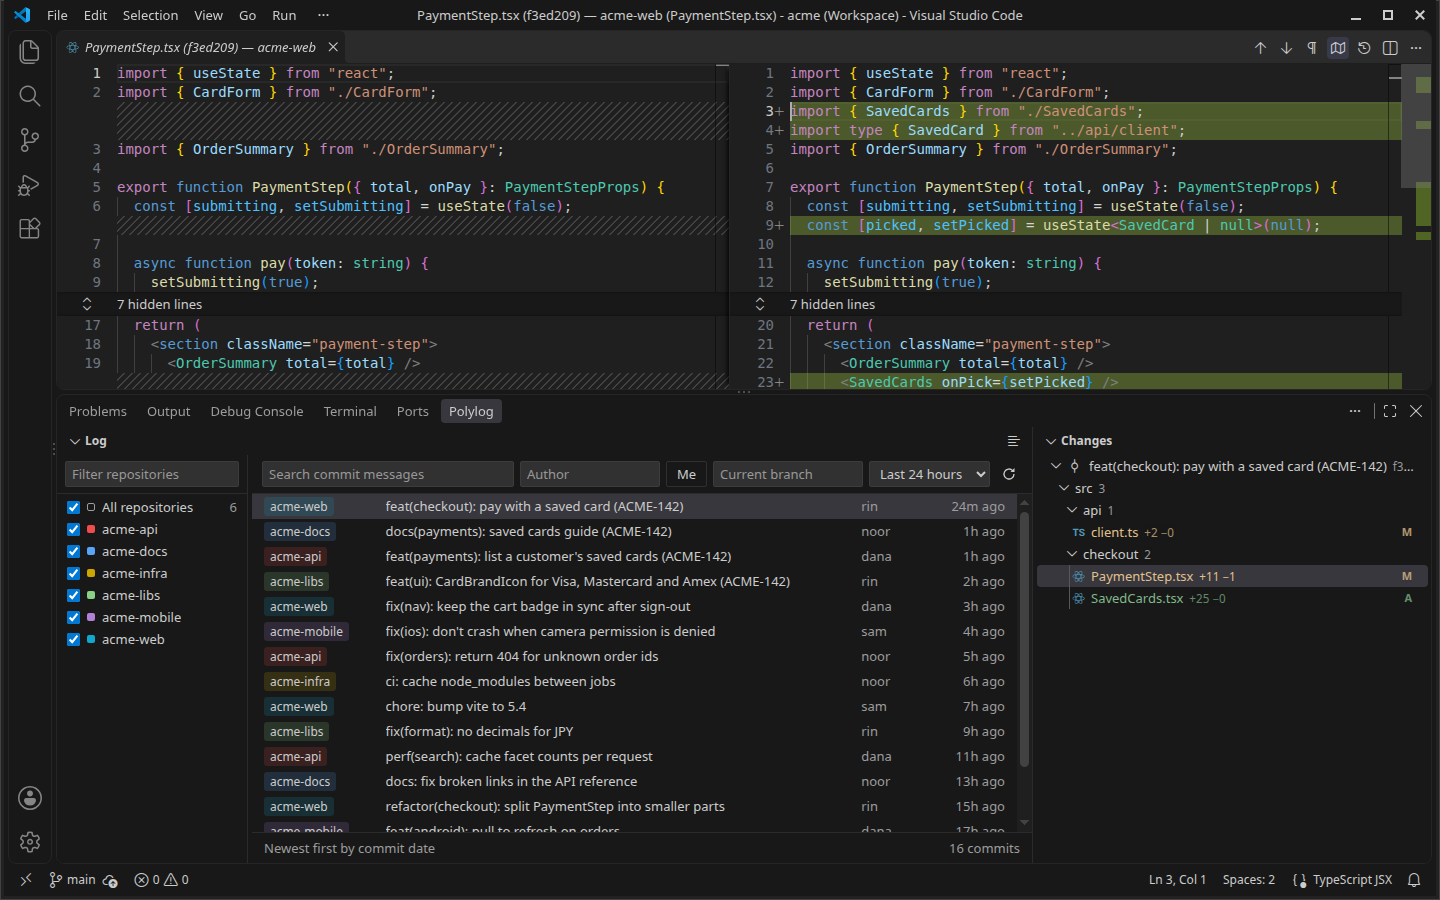
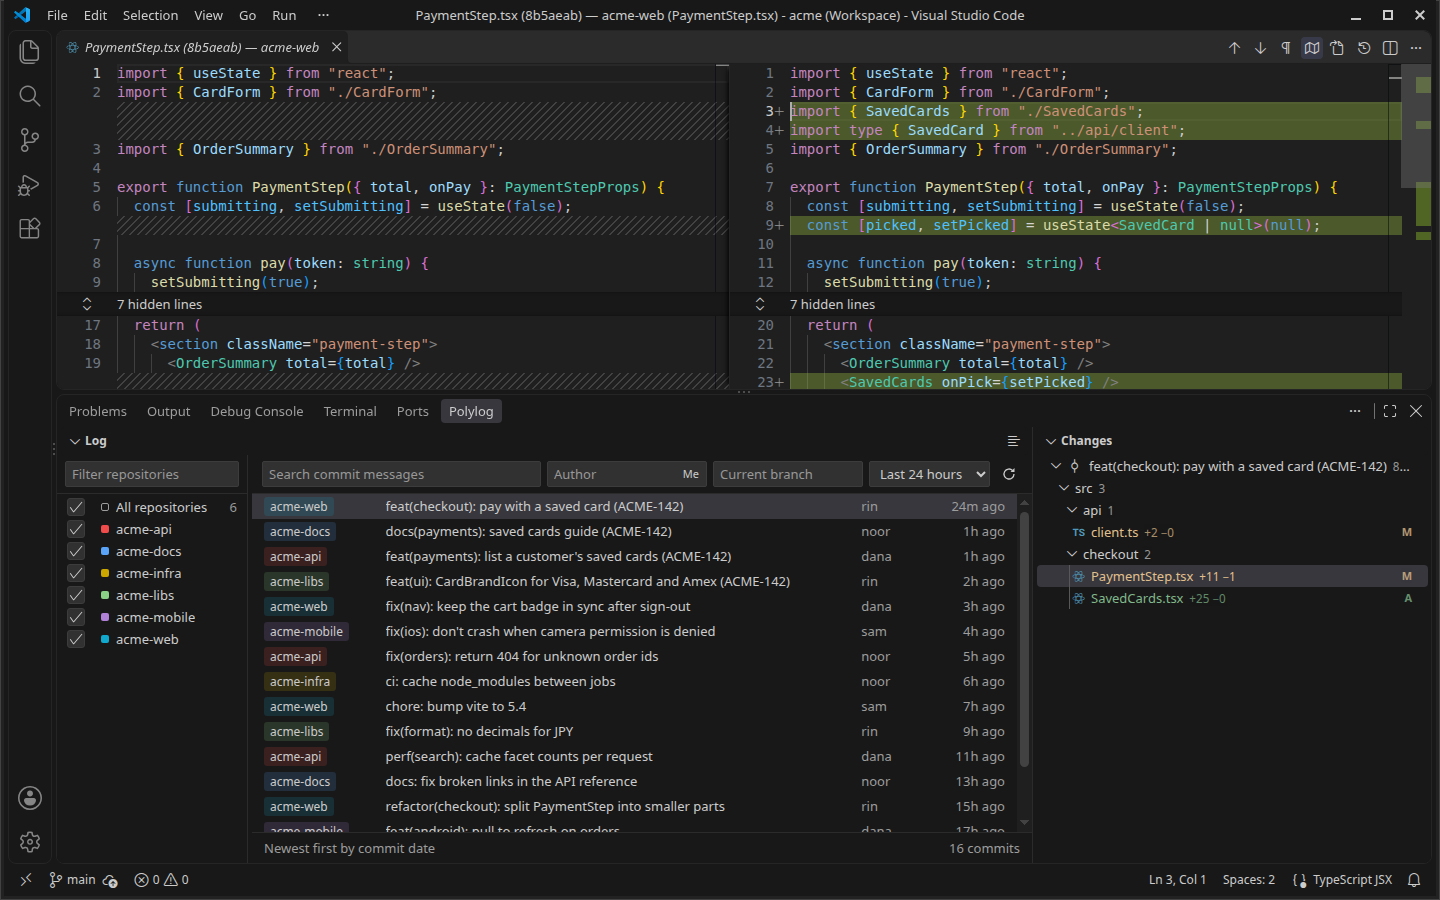
feat: VS Code's own checkboxes in Repositories, and Me as a toggle in Author
Picked from a side-by-side comparison in all four theme kinds (spec §17):
- The Repositories pane uses <vscode-checkbox> from VS Code Elements (MIT,
  pinned 2.5.1): VS Code's box, tick and hover from the theme's checkbox
  variables. A web component, not a framework; only the checkbox is imported
  (webview 19.5 KB -> 50 KB minified). Licenses in ThirdPartyNotices.txt,
  which ships.
- Me is an input-option toggle inside the Author box, like the Aa / ab / .*
  toggles in VS Code's search.

The box stays presentational and the row keeps the click and the keyboard;
verified that a click on the box still ticks/unticks and a click on the name
still picks only that repo. Checked in a real VS Code under the webview CSP,
and the README images are re-shot.

diff --git a/src/webview/styles.css b/src/webview/styles.css
@@ -65,7 +65,9 @@ button.mode:hover { background: var(--vscode-toolbar-hoverBackground); }
 .repo-row:hover { background: var(--vscode-list-hoverBackground); }
 .repo-rows:focus .repo-row.active { background: var(--vscode-list-focusBackground, var(--vscode-list-hoverBackground)); outline: 1px solid var(--vscode-list-focusOutline); outline-offset: -1px; }
 .repo-row[aria-selected="false"] .repo-name { color: var(--vscode-descriptionForeground); }
-.repo-check { margin: 0; flex: none; accent-color: var(--vscode-button-background); }
+/* <vscode-checkbox> draws the box from the theme's checkbox colors. A click on it reaches the
+   row as a click on .repo-check (tick/untick); the row re-renders the box's state. */
+.repo-check { flex: none; }
 .repo-dot { width: 8px; height: 8px; flex: none; border-radius: 2px; background: var(--accent); }
 .repo-dot.all { background: transparent; border: 1px solid var(--vscode-descriptionForeground); }
 .repo-name { overflow: hidden; text-overflow: ellipsis; }
@@ -78,12 +80,25 @@ button.mode:hover { background: var(--vscode-toolbar-hoverBackground); }
 /* ── Filter bar ─────────────────────────────────────────────────────────── */
 .filters { display: flex; flex-wrap: wrap; align-items: center; gap: 6px; padding: 6px 10px; border-bottom: 1px solid var(--vscode-panel-border, var(--vscode-widget-border)); }
 .search { flex: 1 1 180px; min-width: 120px; }
-.author-filter { flex: 0 1 140px; min-width: 90px; }
+/* Author with "Me" as an input option toggle inside it, like the Aa / ab / .* toggles in
+   VS Code's own search box. */
+.author-field { position: relative; display: inline-flex; flex: 0 1 160px; min-width: 100px; }
+.author-filter { width: 100%; }
+.author-field:has(#me:not([hidden])) .author-filter { padding-right: 32px; }
+.input-toggle {
+  position: absolute; right: 3px; top: 50%; transform: translateY(-50%);
+  height: 20px; min-width: 24px; padding: 0 4px; border-radius: 3px;
+  font-size: 11px; line-height: 18px;
+  background: transparent; color: var(--vscode-icon-foreground); border: 1px solid transparent;
+}
+.input-toggle:hover { background: var(--vscode-toolbar-hoverBackground); }
+.input-toggle[aria-pressed="true"] {
+  background: var(--vscode-inputOption-activeBackground);
+  border-color: var(--vscode-inputOption-activeBorder, transparent);
+  color: var(--vscode-inputOption-activeForeground, var(--vscode-foreground));
+}
 .branch-filter { flex: 0 1 150px; min-width: 100px; }
 .filters input[aria-invalid="true"] { border-color: var(--vscode-inputValidation-errorBorder); }
-#me[aria-pressed="true"] { background: var(--vscode-button-background); color: var(--vscode-button-foreground); }
-/* In high contrast both button backgrounds are black: show "pressed" as an outline. */
-body.vscode-high-contrast #me[aria-pressed="true"] { outline: 1px solid var(--vscode-contrastActiveBorder); outline-offset: -1px; }
 input[type="search"], input[type="date"], select {
   height: 26px; padding: 2px 6px; border-radius: 2px;
   background: var(--vscode-input-background); color: var(--vscode-input-foreground);
@@ -178,8 +193,6 @@ body.vscode-high-contrast .row:hover,
 body.vscode-high-contrast .repo-row:hover,
 body.vscode-high-contrast button:hover { outline: 1px dashed var(--vscode-contrastActiveBorder); outline-offset: -1px; }
 body.vscode-high-contrast .row[aria-selected="true"] { outline: 1px solid var(--vscode-contrastActiveBorder); outline-offset: -1px; }
-/* button.background is black in hcDark: a checked box would vanish into the panel. */
-body.vscode-high-contrast .repo-check { accent-color: var(--vscode-contrastActiveBorder); }
 body.vscode-high-contrast .chip { background: transparent; outline: 1px solid var(--accent); outline-offset: -1px; }
 
 /* ── Narrow editor groups: stack list above detail ──────────────────────── */

diff --git a/src/webview/html.ts b/src/webview/html.ts
@@ -38,8 +38,10 @@ export function renderHtml(o: HtmlOptions): string {
     </div>
     <form id="filters" class="filters" role="search" aria-label="Filter commits">
       <input id="search" class="search" type="search" placeholder="Search commit messages" aria-label="Search commit messages" autocomplete="off" spellcheck="false">
-      <input id="author" class="author-filter" type="search" placeholder="Author" aria-label="Filter by author name or email" autocomplete="off" spellcheck="false">
-      <button id="me" class="secondary" type="button" title="Only my commits" hidden>Me</button>
+      <span class="author-field">
+        <input id="author" class="author-filter" type="search" placeholder="Author" aria-label="Filter by author name or email" autocomplete="off" spellcheck="false">
+        <button id="me" class="input-toggle" type="button" title="Only my commits" hidden>Me</button>
+      </span>
       <input id="branch" class="branch-filter" list="branch-list" type="search" placeholder="Current branch" aria-label="Branch: shown in every repository that has it; the others use their current branch" autocomplete="off" spellcheck="false">
       <datalist id="branch-list"></datalist>
       <select id="date" aria-label="Date range">

diff --git a/src/webview/repoPane.ts b/src/webview/repoPane.ts
@@ -113,8 +113,15 @@ export class RepoPane {
     this.rows.forEach((row, i) => {
       const checked = row.id === null ? this.repoIds === null : isChecked(this.repoIds, row.id);
       const accent = row.id === null ? null : accentIndex(row.id, this.repoIds, allIds);
-      const box = h("input", { type: "checkbox", class: "repo-check", tabindex: "-1", "aria-hidden": "true" });
+      // VS Code Elements' checkbox, for VS Code's own box, tick and hover. Presentational:
+      // the row is the listbox option and handles the click and the keyboard.
+      const box = document.createElement("vscode-checkbox");
+      box.className = "repo-check";
+      box.setAttribute("aria-hidden", "true");
+      box.tabIndex = -1;
       box.checked = checked;
+      // "All repositories" shows a dash while only some are picked.
+      box.indeterminate = row.id === null && this.repoIds !== null && this.repoIds.length > 0;
       this.list.append(h("div", {
         class: i === this.active ? "repo-row active" : "repo-row",
         role: "option",

diff --git a/dev/harness/themes/dark.css b/dev/harness/themes/dark.css
@@ -53,4 +53,12 @@
   --vscode-inputOption-activeBorder: #2488db;
   --vscode-inputOption-activeForeground: #ffffff;
   --vscode-inputValidation-errorBorder: #be1100;
+  --vscode-checkbox-background: #313131;
+  --vscode-checkbox-border: #3c3c3c;
+  --vscode-checkbox-foreground: #cccccc;
+  --vscode-checkbox-selectBackground: #313131;
+  --vscode-checkbox-selectBorder: #3c3c3c;
+  --vscode-settings-checkboxBackground: #313131;
+  --vscode-settings-checkboxBorder: #3c3c3c;
+  --vscode-settings-checkboxForeground: #cccccc;
 }

diff --git a/dev/harness/themes/hc-dark.css b/dev/harness/themes/hc-dark.css
@@ -47,4 +47,12 @@
   --vscode-inputOption-activeBorder: #6fc3df;
   --vscode-inputOption-activeForeground: #ffffff;
   --vscode-inputValidation-errorBorder: #f48771;
+  --vscode-checkbox-background: #000000;
+  --vscode-checkbox-border: #6fc3df;
+  --vscode-checkbox-foreground: #ffffff;
+  --vscode-checkbox-selectBackground: #000000;
+  --vscode-checkbox-selectBorder: #6fc3df;
+  --vscode-settings-checkboxBackground: #000000;
+  --vscode-settings-checkboxBorder: #6fc3df;
+  --vscode-settings-checkboxForeground: #ffffff;
 }

diff --git a/dev/harness/themes/hc-light.css b/dev/harness/themes/hc-light.css
@@ -47,4 +47,12 @@
   --vscode-inputOption-activeBorder: #0f4a85;
   --vscode-inputOption-activeForeground: #292929;
   --vscode-inputValidation-errorBorder: #b5200d;
+  --vscode-checkbox-background: #ffffff;
+  --vscode-checkbox-border: #0f4a85;
+  --vscode-checkbox-foreground: #292929;
+  --vscode-checkbox-selectBackground: #ffffff;
+  --vscode-checkbox-selectBorder: #0f4a85;
+  --vscode-settings-checkboxBackground: #ffffff;
+  --vscode-settings-checkboxBorder: #0f4a85;
+  --vscode-settings-checkboxForeground: #292929;
 }

diff --git a/dev/harness/themes/light.css b/dev/harness/themes/light.css
@@ -53,4 +53,12 @@
   --vscode-inputOption-activeBorder: #007acc;
   --vscode-inputOption-activeForeground: #000000;
   --vscode-inputValidation-errorBorder: #be1100;
+  --vscode-checkbox-background: #f8f8f8;
+  --vscode-checkbox-border: #cecece;
+  --vscode-checkbox-foreground: #3b3b3b;
+  --vscode-checkbox-selectBackground: #f8f8f8;
+  --vscode-checkbox-selectBorder: #cecece;
+  --vscode-settings-checkboxBackground: #f8f8f8;
+  --vscode-settings-checkboxBorder: #cecece;
+  --vscode-settings-checkboxForeground: #3b3b3b;
 }

diff --git a/src/webview/main.ts b/src/webview/main.ts
@@ -1,4 +1,6 @@
 import "./styles.css";
+// Registers <vscode-checkbox> (VS Code Elements, MIT): the Repositories pane's boxes.
+import "@vscode-elements/elements/dist/vscode-checkbox/index.js";
 import { DEFAULT_FILTER, type FilterState } from "../filterModel";
 import type { HostMessage, WebviewMessage } from "../protocol";
 import { commitKey, type Commit, type Repo, type RepoFailure } from "../types";

diff --git a/docs/superpowers/specs/2026-09-23-polylog-panel-design.md b/docs/superpowers/specs/2026-09-23-polylog-panel-design.md
@@ -289,3 +289,21 @@ go to. `polylog.openWorkingFile` ("Open File", `$(go-to-file)`) fills that gap:
   refuses `..` and unknown roots).
 - A file that no longer exists in the workspace (deleted or renamed since) gets a message
   instead of an error.
+
+## 17. Amendment: VS Code Elements checkboxes, and Me as an input toggle (2026-09-24, maintainer decision)
+
+Chosen from a side-by-side comparison (current CSS, VS Code Elements, a refined custom
+CSS) in all four theme kinds:
+- The Repositories pane's checkboxes are `<vscode-checkbox>` from
+  [VS Code Elements](https://vscode-elements.github.io/) (`@vscode-elements/elements`,
+  MIT, pinned 2.5.1). It is a web component, not a framework (CLAUDE.md "no framework in
+  the webview" holds), and it draws VS Code's own box, tick and hover from the theme's
+  `--vscode-checkbox-*` and `--vscode-settings-checkbox*` variables. Only the checkbox is
+  imported. The minified webview grows from 19.5 KB to 50 KB (the checkbox plus Lit).
+  Its licenses ship in `ThirdPartyNotices.txt`.
+- The box stays presentational (`aria-hidden`, `tabindex=-1`): the row is the listbox
+  option and owns the click and the keyboard. A click on the box still ticks or unticks;
+  a click on the name still shows only that repository.
+- "Me" moves inside the Author box as an input-option toggle, like the Aa / ab / .*
+  toggles in VS Code's search, using `--vscode-inputOption-*`.
+- Everything else in the left view is unchanged.

diff --git a/CHANGELOG.md b/CHANGELOG.md
@@ -17,7 +17,7 @@ The first release.
   one list, merged newest first by commit date, each with a chip showing the repository it
   belongs to. Polylog opens as a tab in the bottom panel, next to Terminal.
 - **Search and filters that apply to every repository at once:** commit message
-  (literal, case-insensitive), author with a **Me** button, branch, and date range (last
+  (literal, case-insensitive), author with a **Me** toggle inside the box, branch, and date range (last
   24 hours by default). Every filter becomes a `git log` flag, so git does the searching;
   there is no index and no cache to go stale.
 - **Branch in every repo.** Type or pick a branch such as `origin/release-1.4`; each

diff --git a/README.md b/README.md
@@ -66,7 +66,7 @@ plus any it finds in your workspace folders (up to `polylog.scanDepth` levels de
 - **Search across every repo.** Search commit messages (literal, case-insensitive) across
   every repository at once.
 - **Filters:**
-  - **Author**, with a **Me** button that uses each repo's own `user.email`.
+  - **Author**, with a **Me** toggle inside the box that uses each repo's own `user.email`.
   - **Branch**, applied in every repo that has it.
   - **Date range:** last 24 hours by default, or 7 days, 30 days, all time, or a custom
     range.
